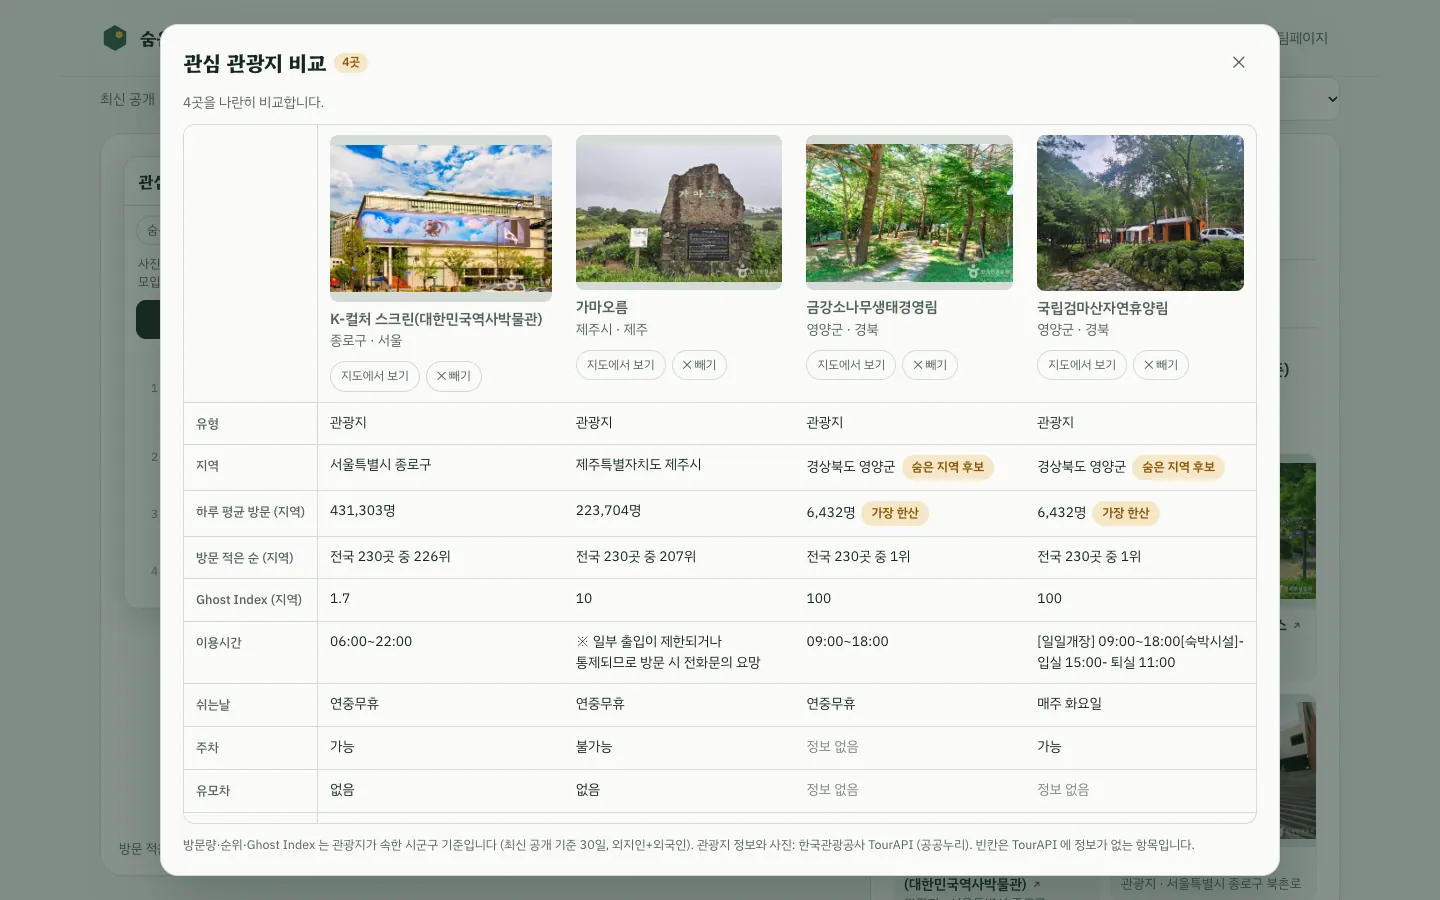
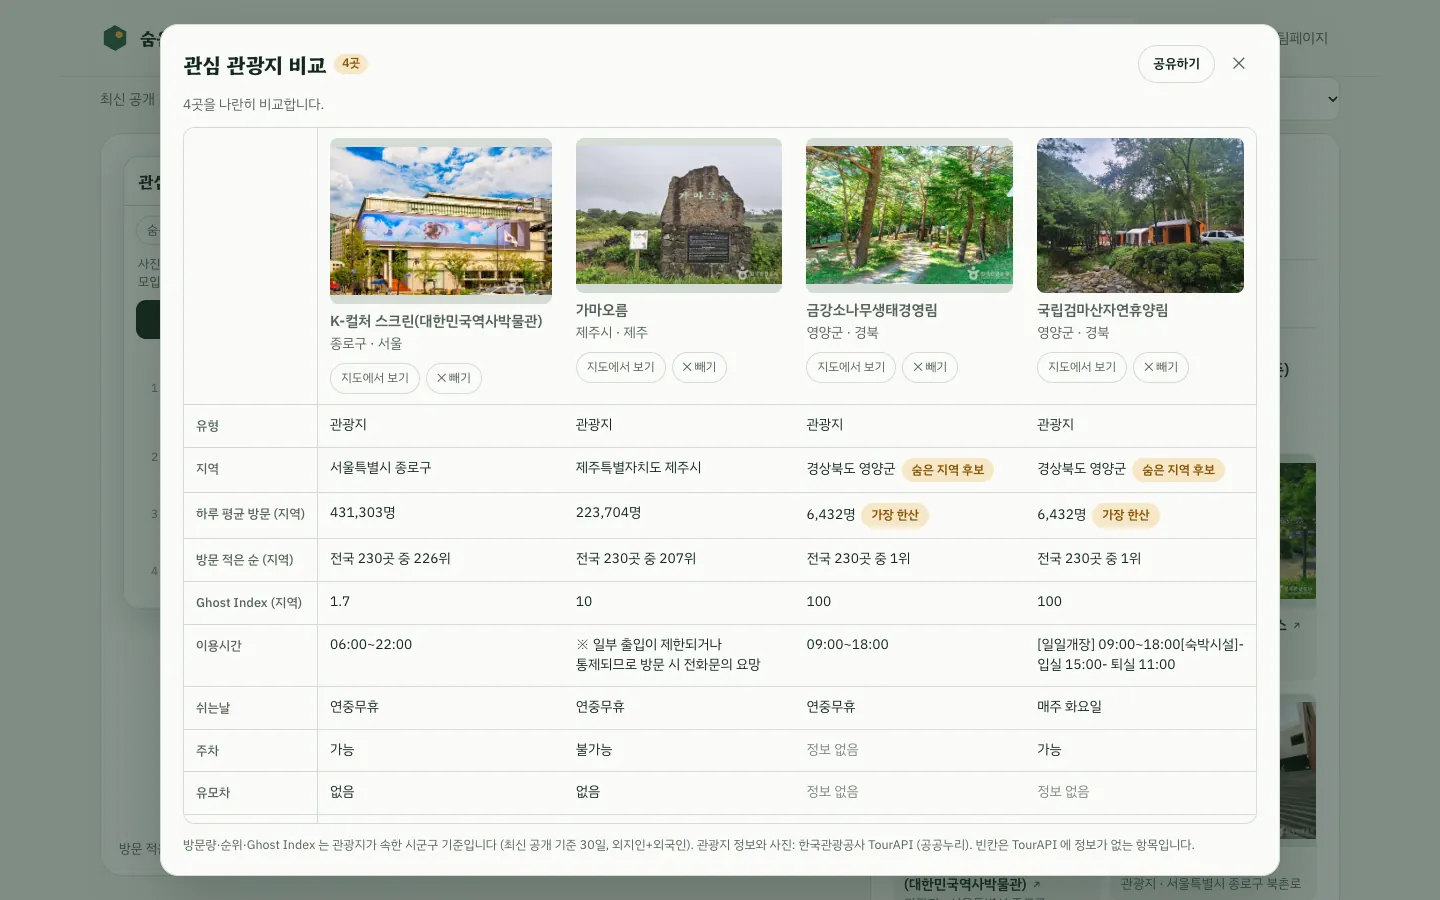
docs: 비교 링크 공유 반영 (팀 페이지 기능 표·비교 창 설명·캡처, CLAUDE.md)

diff --git a/docs/index.html b/docs/index.html
@@ -615,9 +615,9 @@ pre.json{margin:12px 0 0;background:var(--bg);border:1px solid var(--line);borde
     </figure>
     <figure class="shot wide">
       <button type="button" class="shot-btn" aria-label="관심 관광지 비교 화면 크게 보기">
-        <img src="images/service-compare.webp" width="1440" height="900" loading="lazy" alt="관심 관광지 비교 창. 서울 종로구 K-컬처 스크린, 제주시 가마오름, 경북 영양군 금강소나무생태경영림과 국립검마산자연휴양림 네 곳을 사진과 함께 나란히 놓고, 유형, 지역, 하루 평균 방문, 방문 적은 순, Ghost Index, 이용시간, 쉬는날, 주차, 유모차를 비교합니다. 영양군 두 곳에는 숨은 지역 후보와 가장 한산 표시가 붙어 있습니다.">
+        <img src="images/service-compare.webp" width="1440" height="900" loading="lazy" alt="관심 관광지 비교 창. 서울 종로구 K-컬처 스크린, 제주시 가마오름, 경북 영양군 금강소나무생태경영림과 국립검마산자연휴양림 네 곳을 사진과 함께 나란히 놓고, 유형, 지역, 하루 평균 방문, 방문 적은 순, Ghost Index, 이용시간, 쉬는날, 주차, 유모차를 비교합니다. 영양군 두 곳에는 숨은 지역 후보와 가장 한산 표시가 붙어 있고, 창 오른쪽 위에 공유하기 버튼이 있습니다.">
       </button>
-      <figcaption><strong>관심 관광지 비교</strong><span>♡로 담은 관광지를 지도 위 창에서 나란히 비교합니다. 지역 방문량·순위·Ghost Index와 TourAPI 상세(이용시간·쉬는날·요금·주차·문의처·소개)를 한 표로 보고, 방문이 가장 적은 곳에 ‘가장 한산’을 표시합니다. 관심 목록은 로그인 없이 이 브라우저에만 저장됩니다.</span></figcaption>
+      <figcaption><strong>관심 관광지 비교</strong><span>♡로 담은 관광지를 지도 위 창에서 나란히 비교합니다. 지역 방문량·순위·Ghost Index와 TourAPI 상세(이용시간·쉬는날·요금·주차·문의처·소개)를 한 표로 보고, 방문이 가장 적은 곳에 ‘가장 한산’을 표시합니다. 관심 목록은 로그인 없이 이 브라우저에만 저장됩니다. ‘공유하기’로 비교 링크를 복사하거나 휴대폰 공유 창(카카오톡·문자 등)으로 보내면, 받은 사람에게 같은 비교표가 열리고 마음에 드는 곳을 자기 관심 목록에 담을 수 있습니다.</span></figcaption>
     </figure>
     <figure class="shot">
       <button type="button" class="shot-btn" aria-label="데이터 분석 화면 크게 보기">
@@ -639,7 +639,7 @@ pre.json{margin:12px 0 0;background:var(--bg);border:1px solid var(--line);borde
       <thead><tr><th scope="col">페이지</th><th scope="col">주요 기능</th><th scope="col">부르는 API</th></tr></thead>
       <tbody>
         <tr><td class="nw"><b>지도</b><small>index.html</small></td>
-          <td><ul><li>방문량 5단계 색칠과 숨은 지역 후보 강조</li><li>숨은 지역 후보 목록 (지도 위에 떠 있는 패널, 접고 펼치기)</li><li>지역 찾기, 지역 상세 (Ghost Index, 하루 평균 방문, 순위, 사진 6장)</li><li>관광지 유형 필터(관광지·문화시설·레포츠)와 전체 보기</li><li>사진 왼쪽 위 ♡로 관심 관광지 저장 (브라우저에만), 패널의 관심 관광지 탭</li><li>관심 관광지 비교 창: 지역 방문량·순위와 이용시간·쉬는날·요금·주차 등을 나란히</li><li>주소 뒤 <code>#지역코드</code>로 바로 열기</li></ul></td>
+          <td><ul><li>방문량 5단계 색칠과 숨은 지역 후보 강조</li><li>숨은 지역 후보 목록 (지도 위에 떠 있는 패널, 접고 펼치기)</li><li>지역 찾기, 지역 상세 (Ghost Index, 하루 평균 방문, 순위, 사진 6장)</li><li>관광지 유형 필터(관광지·문화시설·레포츠)와 전체 보기</li><li>사진 왼쪽 위 ♡로 관심 관광지 저장 (브라우저에만), 패널의 관심 관광지 탭</li><li>관심 관광지 비교 창: 지역 방문량·순위와 이용시간·쉬는날·요금·주차 등을 나란히</li><li>비교 링크 공유 (<code>?compare=관광지ID,…</code>): 링크 복사·휴대폰 공유 창, 받은 사람은 같은 비교표를 보고 내 관심 목록에 담기</li><li>주소 뒤 <code>#지역코드</code>로 바로 열기</li></ul></td>
           <td class="nw"><code>/regions</code><br><code>/hidden</code><br><code>/regions/{code}/attractions</code><br><code>/attractions/{content_id}</code><br><code>/stats/overview</code></td></tr>
         <tr><td class="nw"><b>데이터 분석</b><small>analysis.html</small></td>
           <td><ul><li>수집 현황 요약과 데이터 출처</li><li>차트 5개 (관광객 구성, 방문량 분포, 시도별 비교, 사진 수와 방문량, Ghost Index 계산 과정)</li><li>차트마다 표 보기, 다크 모드, 휴대폰 화면 지원</li></ul></td>

diff --git a/CLAUDE.md b/CLAUDE.md
@@ -177,6 +177,9 @@ hidden-travel-map/
   /attractions/{content_id}(비교함용 상세. Render 환경변수 TOUR_API_KEY 필요, 없으면 상세 항목만 null)
 - 지도 화면 관심 관광지(2026-10-10~11): 사진 왼쪽 위 ♡ 로 저장(localStorage `htm.saved.v1`), 지도 위 패널 '관심 관광지' 탭.
   관심 목록 = 비교함. '관심 관광지 비교하기'를 누르면 `<dialog>` 비교표(지역 방문량·순위·Ghost Index + TourAPI 상세)가 뜬다.
+  비교 링크 공유(2026-10-12): 비교 창 '공유하기' → `?compare=관광지ID,…`(숫자만·중복 없이·20개까지) 링크 복사 또는 navigator.share.
+  받은 사람은 '공유받은 관광지 비교' 창이 바로 뜨고 ♡ 담기·모두 담기로 자기 목록에 넣는다(기존 목록은 안 덮음). 닫으면 ?compare= 를 지운다.
+  범위 결정: 지역 공유·텍스트 요약 복사·OG 미리보기 카드·카카오 SDK 는 하지 않음.
 - [전국 수집 결과, 2026-08-02~08-31] visitor_daily 24,208행, 시 단위 230곳 순위. 방문 최하위 5곳은 영양군·울릉군·장수군·양구군·의령군
   (기획안 목업 예시와 일치). 사진 있는 관광지 17,658곳, 230곳 모두 3곳 이상. 숨은 지역 후보는 하위 20% 기준 46곳, 30% 기준 69곳.
 - [실호출 확인] TourAPI arrange=Q(대표 이미지 있는 것만)가 사진 없는 콘텐츠를 완전히 거르지 않는다(서울 관광지 775건 중 50건 사진 없음) → 코드에서 firstimage 로 한 번 더 거른다.
